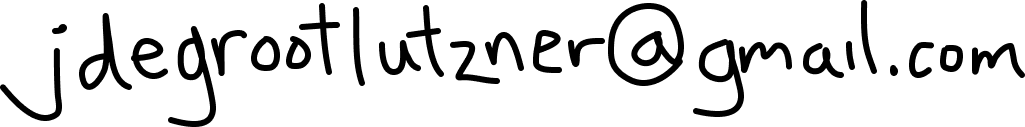
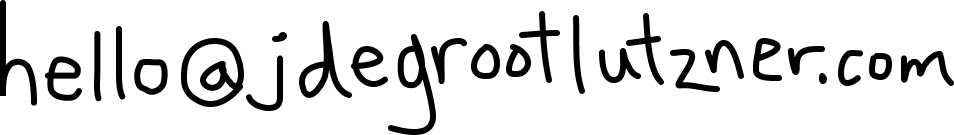
Update email address

Changed region(s): [[0.0, 0.0, 1.0, 1.0]]

diff --git a/index.html b/index.html
@@ -294,7 +294,7 @@
       <section id="contact" class="flex flex-col items-center mt-96">
 
         <img src="/assets/home/lost-wallet-text.png" class="w-2/3 pointer-events-none" alt="Lost wallet filled with $$$. If found email:">
-        <a href="mailto:jdegrootlutzner@gmail.com"><img src="/assets/home/my-email.png" class="mt-6 mb-2 w-11/12 border-2 px-4 py-6 border-white hover:border-generic-blue" alt="jdegrootlutzner.com"></a>
+        <a href="mailto:hello@jdegrootlutzner.com"><img src="/assets/home/my-email.png" class="mt-6 mb-2 w-11/12 border-2 px-4 py-6 border-white hover:border-generic-blue" alt="jdegrootlutzner.com"></a>
         <div class="grid grid-cols-12">
           <img src="/assets/home/wallet.png" class="col-span-7 pointer-events-none" alt="Photo of a wallet filled with lots of money">
           <img src="/assets/home/no-reward-text.png" class="col-span-5 mt-6 pointer-events-none" alt="No reward!">
